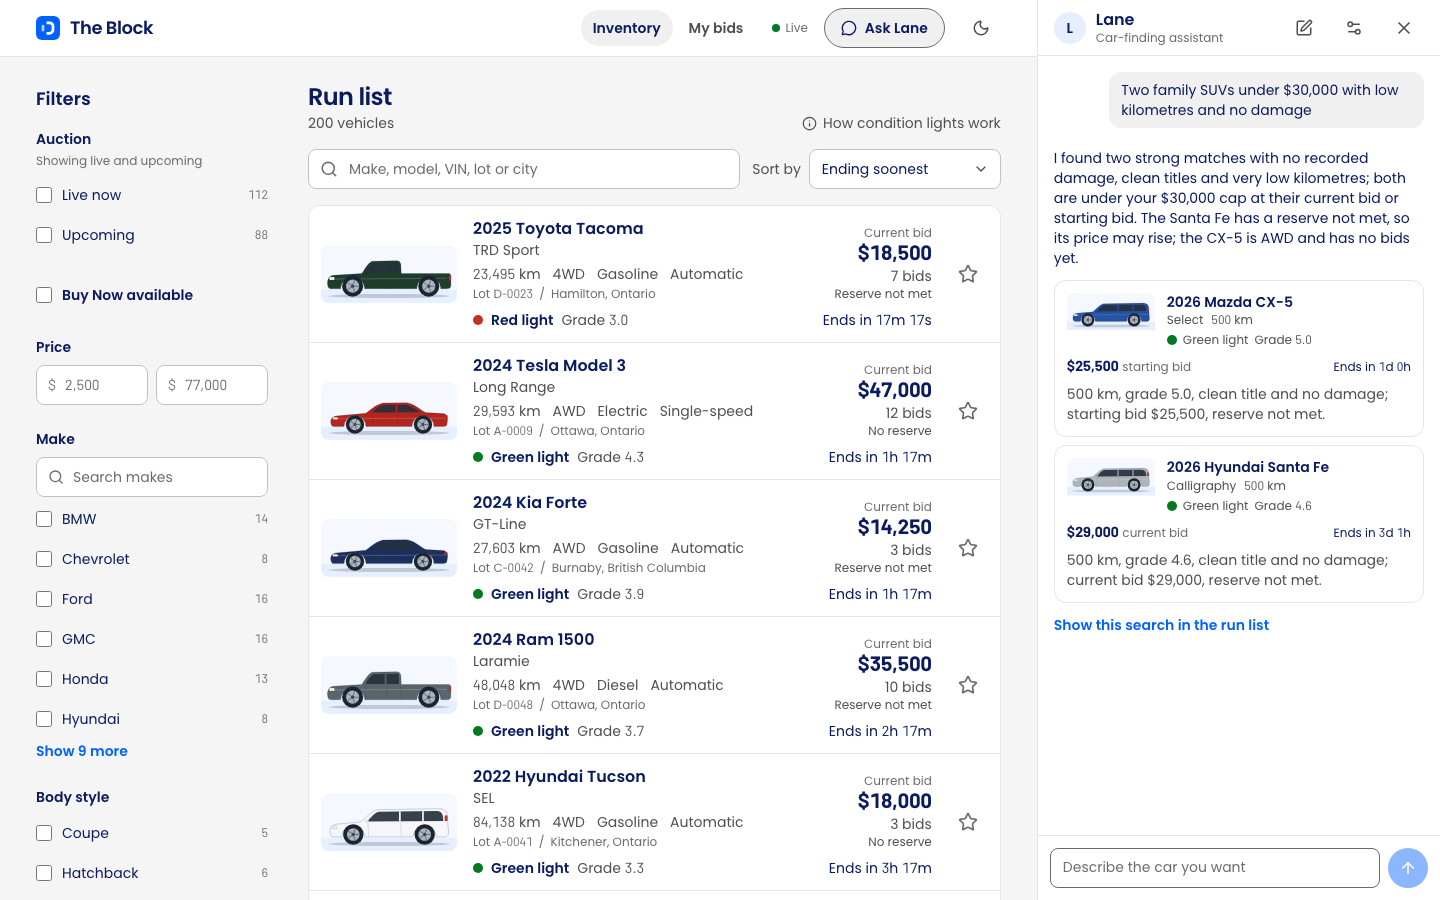
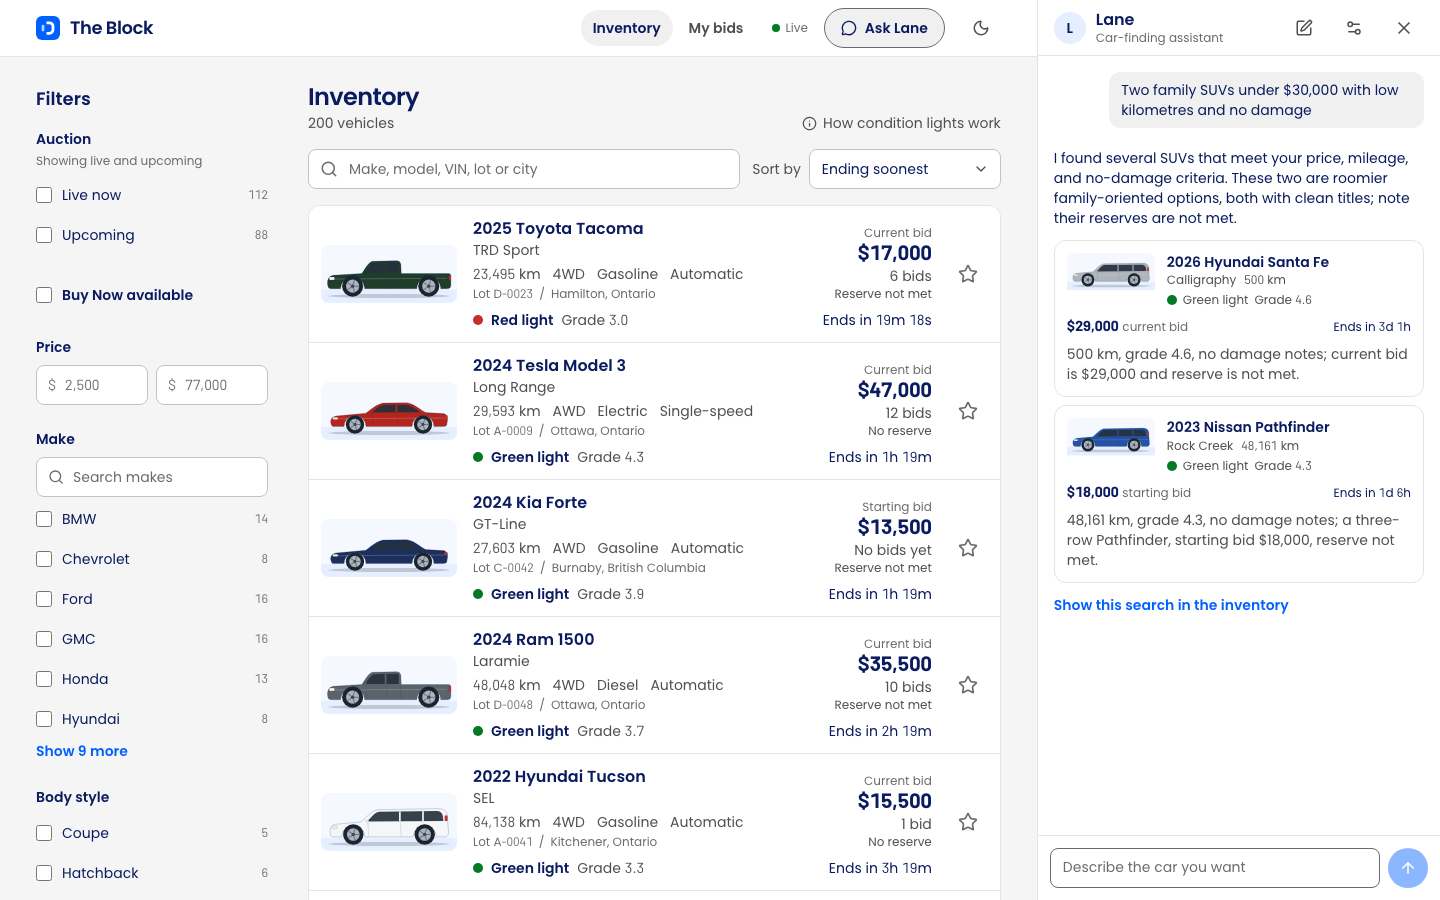
Call the vehicle list 'Inventory', matching the nav tab (#26)
'Run list' is auction-house jargon and didn't match the 'Inventory' tab. The page heading, the
back link on a car page, Lane's step ('Searching the inventory') and link ('Show this search in
the inventory'), empty and error messages, code names, tests and the README now all say
inventory. The back link keeps the visible text 'Inventory' but is named 'Back to inventory',
since the header has an 'Inventory' link too. Screenshots retaken.

diff --git a/web/src/routes/inventory/VehicleRow.tsx b/web/src/routes/inventory/VehicleRow.tsx
@@ -22,10 +22,10 @@ const EDGE = {
 
 /*
  * Rows lay out by the width of their list, not the window's (container queries, sizes in
- * index.css), so they fit wherever they are: the run list beside the filters, My bids, or a page
- * narrowed by Lane's panel. From about 940px of list the run list is a table, and wider lists add
+ * index.css), so they fit wherever they are: the inventory beside the filters, My bids, or a page
+ * narrowed by Lane's panel. From about 940px of list the inventory is a table, and wider lists add
  * columns instead of stretching the gaps: odometer from about 1210px, location from about 1460px
- * (what the run list gets on 1280, 1600 and 1900px screens). Header and rows share these.
+ * (what the inventory gets on 1280, 1600 and 1900px screens). Header and rows share these.
  *
  * Only the vehicle column stretches; every other column is sized to its content, with the same
  * 32px between all of them. Text columns (condition, location) sit left and figures (odometer,
@@ -40,7 +40,7 @@ const EDGE = {
 const TABLE_COLUMNS =
   '@row-table:grid-cols-[8rem_minmax(0,1fr)_7.5rem_7rem_9rem_2.5rem] @row-table:gap-x-8 @row-wide:grid-cols-[8rem_minmax(0,1fr)_7.5rem_6.5rem_7rem_9rem_2.5rem] @row-widest:grid-cols-[8rem_minmax(0,1fr)_7.5rem_9rem_6.5rem_7rem_9rem_2.5rem]'
 
-/** Column labels over the run list's table layout (wide lists only). */
+/** Column labels over the inventory's table layout (wide lists only). */
 export function VehicleRowHeader() {
   return (
     <div
@@ -63,7 +63,7 @@ export function VehicleRowHeader() {
 }
 
 /**
- * One line of the run list: everything a buyer scans before deciding to open a car. Each fact is
+ * One line of the inventory: everything a buyer scans before deciding to open a car. Each fact is
  * rendered once and placed by grid areas: a compact card in a narrow list, two lines beside the
  * picture in a medium one, table columns in a wide one. The list must be an `@container`.
  * `note` adds a line under the vehicle, e.g. "Your top bid $23,300" on My bids.
@@ -76,8 +76,8 @@ export function VehicleRow({ vehicle, note }: { vehicle: VehicleSummary; note?: 
   const hasBids = auction.current_bid !== null
   const name = vehicleName(vehicle)
   const light = conditionLight(vehicle)
-  // The vehicle page's "Run list" link goes back (keeping filters and page) only from here.
-  const onRunList = useMatch('/') !== null
+  // The vehicle page's "Inventory" link goes back (keeping filters and page) only from here.
+  const onInventory = useMatch('/') !== null
 
   return (
     <article
@@ -115,7 +115,7 @@ export function VehicleRow({ vehicle, note }: { vehicle: VehicleSummary; note?: 
             {/* Stretched link: the whole row opens the vehicle, with one link for screen readers. */}
             <Link
               to={`/vehicles/${vehicle.id}`}
-              state={onRunList ? { fromRunList: true } : undefined}
+              state={onInventory ? { fromInventory: true } : undefined}
               className="after:absolute after:inset-0 after:content-[''] focus-visible:outline-none focus-visible:after:outline-2 focus-visible:after:outline-offset-[-2px] focus-visible:after:outline-[var(--focus)]"
             >
               {name}

diff --git a/web/src/components/lane/LanePanel.test.tsx b/web/src/components/lane/LanePanel.test.tsx
@@ -203,7 +203,7 @@ describe('Lane', () => {
     const { sent } = serve({
       reply: () =>
         eventStream([
-          { type: 'step', label: 'Searching the run list' },
+          { type: 'step', label: 'Searching the inventory' },
           { type: 'text', delta: 'One SUV ' },
           { type: 'text', delta: 'fits.' },
           {
@@ -225,7 +225,7 @@ describe('Lane', () => {
     expect(conversation(lane).getByText('One SUV fits.')).toBeInTheDocument()
     expect(within(card).getByText('Low kilometres, reserve met.')).toBeInTheDocument()
     expect(within(card).getByRole('link')).toHaveAttribute('href', '/vehicles/veh-9')
-    expect(lane.getByRole('link', { name: 'Show this search in the run list' })).toHaveAttribute(
+    expect(lane.getByRole('link', { name: 'Show this search in the inventory' })).toHaveAttribute(
       'href',
       '/?body_style=SUV&price_max=30000',
     )
@@ -328,14 +328,14 @@ describe('Lane', () => {
   })
 
   it('stops an answer on request', async () => {
-    const stream = eventStream([{ type: 'step', label: 'Searching the run list' }], true)
+    const stream = eventStream([{ type: 'step', label: 'Searching the inventory' }], true)
     const onStop = vi.fn(() => stream.close())
     serve({ reply: () => stream.response, onStop })
     renderRoute('/')
     const lane = await openLane()
 
     await userEvent.type(await lane.findByRole('textbox', { name: 'Message Lane' }), 'Hi{Enter}')
-    expect(await lane.findByText('Searching the run list…')).toBeInTheDocument()
+    expect(await lane.findByText('Searching the inventory…')).toBeInTheDocument()
     await userEvent.click(lane.getByRole('button', { name: 'Stop answering' }))
     expect(onStop).toHaveBeenCalled()
     await waitFor(() => expect(conversation(lane).getByText('Stopped.')).toBeInTheDocument())
@@ -430,7 +430,7 @@ describe('Lane', () => {
 
   it('never leaves an answer spinning when the stream ends without one', async () => {
     serve({
-      reply: () => eventStream([{ type: 'step', label: 'Searching the run list' }]).response,
+      reply: () => eventStream([{ type: 'step', label: 'Searching the inventory' }]).response,
     })
     renderRoute('/')
     const lane = await openLane()
@@ -442,13 +442,13 @@ describe('Lane', () => {
   })
 
   it('stops the answer when "New chat" is pressed while Lane is answering', async () => {
-    const stream = eventStream([{ type: 'step', label: 'Searching the run list' }], true)
+    const stream = eventStream([{ type: 'step', label: 'Searching the inventory' }], true)
     const onStop = vi.fn()
     serve({ reply: () => stream.response, onStop })
     renderRoute('/')
     const lane = await openLane()
     await userEvent.type(await lane.findByRole('textbox', { name: 'Message Lane' }), 'Hi{Enter}')
-    expect(await lane.findByText('Searching the run list…')).toBeInTheDocument()
+    expect(await lane.findByText('Searching the inventory…')).toBeInTheDocument()
     await userEvent.click(lane.getByRole('button', { name: 'New chat' }))
     await waitFor(() => expect(onStop).toHaveBeenCalled())
     stream.close() // the old answer's end arrives late: it mustn't show in the new chat

diff --git a/web/src/routes/VehicleDetailPage.tsx b/web/src/routes/VehicleDetailPage.tsx
@@ -54,7 +54,7 @@ function VehicleDetailContent({ vehicleId }: { vehicleId: string }) {
     return (
       <section className="mx-auto max-w-md py-16 text-center" role="alert">
         <h1 className="text-2xl font-semibold tracking-tight">
-          {missing ? 'This vehicle isn’t on the run list' : 'Couldn’t load this vehicle'}
+          {missing ? 'This vehicle isn’t in the inventory' : 'Couldn’t load this vehicle'}
         </h1>
         <p className="text-ink-muted mt-2">
           {missing ? 'It may have been removed, or the link is wrong.' : query.error.message}
@@ -66,7 +66,7 @@ function VehicleDetailContent({ vehicleId }: { vehicleId: string }) {
             </button>
           )}
           <Link to="/" className="btn btn-plain">
-            Back to the run list
+            Back to the inventory
           </Link>
         </div>
       </section>
@@ -103,25 +103,28 @@ function VehicleDetailContent({ vehicleId }: { vehicleId: string }) {
   )
 }
 
-/** Back to the run list as the buyer left it (filters, page) when they came from it. */
+/** Back to the inventory as the buyer left it (filters, page) when they came from it. */
 function BackLink() {
   const navigate = useNavigate()
   const location = useLocation()
-  // Go back only when we came from the run list, so its filters and page are restored. From
-  // anywhere else (My bids, a toast, a shared link) this is a plain link to the run list.
-  const fromRunList = (location.state as { fromRunList?: boolean } | null)?.fromRunList === true
+  // Go back only when we came from the inventory, so its filters and page are restored. From
+  // anywhere else (My bids, a toast, a shared link) this is a plain link to the inventory.
+  const fromInventory =
+    (location.state as { fromInventory?: boolean } | null)?.fromInventory === true
   return (
     <Link
       to="/"
+      // The header has an "Inventory" link too: this one says where it goes.
+      aria-label="Back to inventory"
       onClick={(event) => {
-        if (!fromRunList) return
+        if (!fromInventory) return
         event.preventDefault()
         void navigate(-1)
       }}
       className="text-ink-muted hover:text-ink inline-flex items-center gap-1.5 text-sm font-semibold"
     >
       <ArrowLeft size={16} aria-hidden />
-      Run list
+      Inventory
     </Link>
   )
 }

diff --git a/web/src/routes/MyBidsPage.test.tsx b/web/src/routes/MyBidsPage.test.tsx
@@ -37,7 +37,7 @@ describe('MyBidsPage', () => {
     expect(within(screen.getByRole('link', { name: /My bids/ })).getByText('1')).toBeInTheDocument()
   })
 
-  it("takes 'Run list' on a car opened from here to the run list, not back here", async () => {
+  it("takes 'Back to inventory' on a car opened from here to the inventory, not back here", async () => {
     vi.stubGlobal(
       'fetch',
       stubApi((url) =>
@@ -54,17 +54,17 @@ describe('MyBidsPage', () => {
     )
     renderRoute('/my-bids')
     await userEvent.click(await screen.findByRole('link', { name: '2023 Ford F-150' }))
-    await userEvent.click(await screen.findByRole('link', { name: 'Run list' }))
-    expect(await screen.findByRole('heading', { name: 'Run list' })).toBeInTheDocument()
+    await userEvent.click(await screen.findByRole('link', { name: 'Back to inventory' }))
+    expect(await screen.findByRole('heading', { name: 'Inventory' })).toBeInTheDocument()
   })
 
-  it('invites you to the run list when there is nothing to show', async () => {
+  it('invites you to the inventory when there is nothing to show', async () => {
     serve([])
     renderRoute('/my-bids')
     expect(
       await screen.findByRole('heading', { name: 'No bids or watched vehicles yet' }),
     ).toBeInTheDocument()
-    expect(screen.getByRole('link', { name: 'Browse the run list' })).toHaveAttribute('href', '/')
+    expect(screen.getByRole('link', { name: 'Browse the inventory' })).toHaveAttribute('href', '/')
   })
 
   it('suggests the auctions closing first when there is nothing to show', async () => {

diff --git a/web/src/components/lane/LanePanel.tsx b/web/src/components/lane/LanePanel.tsx
@@ -28,7 +28,7 @@ import { cn } from '../../lib/cn'
 import { formatClockTime } from '../../lib/format'
 import { SelectField } from '../SelectField'
 import { LanePickCard } from './LanePickCard'
-import { runListUrl, useLane, useLaneOpen, type Turn } from './laneState'
+import { inventoryUrl, useLane, useLaneOpen, type Turn } from './laneState'
 
 const WIDE = '(min-width: 80rem)'
 /** The server's limit on a message (LaneMessage.text in server/app/lane/schemas.py). */
@@ -272,7 +272,7 @@ function SignIn({ status }: { status: LaneStatus }) {
     <div className="space-y-4 p-4 text-sm">
       <p>
         Tell Lane what you're after (budget, body style, mileage, when the auction should close) and
-        it picks the cars in today's run list that fit, with the reason for each.
+        it picks the cars in today's inventory that fit, with the reason for each.
       </p>
       <p className="text-ink-muted">
         Lane answers with your ChatGPT account. Sign in once; it stays signed in on this computer.
@@ -514,8 +514,8 @@ const TurnView = memo(function TurnView({ turn, onOpen }: { turn: Turn; onOpen?:
         </ul>
       )}
       {turn.search && turn.picks.length > 0 && (
-        <Link to={runListUrl(turn.search)} onClick={onOpen} className="link-action inline-block">
-          Show this search in the run list
+        <Link to={inventoryUrl(turn.search)} onClick={onOpen} className="link-action inline-block">
+          Show this search in the inventory
         </Link>
       )}
       {turn.problem &&

diff --git a/web/e2e/bidding.spec.ts b/web/e2e/bidding.spec.ts
@@ -2,7 +2,7 @@ import { expect, test } from '@playwright/test'
 
 test('a buyer finds a vehicle, bids on it, and tracks it in My bids', async ({ page }) => {
   await page.goto('/')
-  await expect(page.getByRole('heading', { name: 'Run list' })).toBeVisible()
+  await expect(page.getByRole('heading', { name: 'Inventory' })).toBeVisible()
   await expect(page.getByText('200 vehicles')).toBeVisible()
 
   // Search narrows the list and lands in the URL.
@@ -32,8 +32,8 @@ test('a buyer finds a vehicle, bids on it, and tracks it in My bids', async ({ p
   await expect(panel.getByText("You're the high bidder.")).toBeVisible()
   await expect(panel.getByRole('listitem').first()).toContainText('You')
 
-  // Back returns to the filtered run list, where the row now shows the lead.
-  await page.getByRole('link', { name: 'Run list' }).click()
+  // Back returns to the filtered inventory, where the row now shows the lead.
+  await page.getByRole('link', { name: 'Back to inventory' }).click()
   await expect(page).toHaveURL(/status=live/)
   await expect(rows.filter({ hasText: title }).first()).toContainText("You're winning")
 

diff --git a/web/src/routes/InventoryPage.tsx b/web/src/routes/InventoryPage.tsx
@@ -54,7 +54,7 @@ export function InventoryPage() {
         <div className="flex flex-wrap items-end justify-between gap-x-4 gap-y-2">
           <div>
             <h1 id="inventory-heading" className="text-2xl font-semibold tracking-tight">
-              Run list
+              Inventory
             </h1>
             <p className="text-ink-muted text-sm" aria-live="polite">
               {data ? plural(data.total, 'vehicle') : 'Loading vehicles…'}
@@ -79,7 +79,7 @@ export function InventoryPage() {
             <RowSkeletons />
           ) : inventory.isError && !data ? (
             <Notice
-              title="Couldn't load the run list"
+              title="Couldn't load the inventory"
               body={inventory.error.message}
               action={{ label: 'Try again', onClick: () => void inventory.refetch() }}
             />

diff --git a/web/src/components/lane/laneState.ts b/web/src/components/lane/laneState.ts
@@ -10,7 +10,7 @@ export type Turn =
       id: string
       role: 'lane'
       text: string
-      /** What Lane did on the way, e.g. "Searching the run list". */
+      /** What Lane did on the way, e.g. "Searching the inventory". */
       steps: string[]
       picks: LanePick[]
       search: Search | null
@@ -90,8 +90,8 @@ export function useLane(): LaneState {
   return { ...useLaneOpen(), ...chat }
 }
 
-/** The run list's URL for Lane's search: the same filters, so the buyer can browse them all. */
-export function runListUrl(search: Search): string {
+/** The inventory's URL for Lane's search: the same filters, so the buyer can browse them all. */
+export function inventoryUrl(search: Search): string {
   const params = toSearchParams(search)
   return params.size > 0 ? `/?${params}` : '/'
 }

diff --git a/web/src/routes/InventoryPage.test.tsx b/web/src/routes/InventoryPage.test.tsx
@@ -81,7 +81,7 @@ describe('InventoryPage', () => {
     expect(router.state.location.search).toBe('?buy_now=true')
   })
 
-  it('offers a retry when the run list fails to load', async () => {
+  it('offers a retry when the inventory fails to load', async () => {
     vi.stubGlobal(
       'fetch',
       vi.fn().mockResolvedValue(
@@ -94,7 +94,7 @@ describe('InventoryPage', () => {
       ),
     )
     renderRoute('/')
-    expect(await screen.findByRole('alert')).toHaveTextContent("Couldn't load the run list")
+    expect(await screen.findByRole('alert')).toHaveTextContent("Couldn't load the inventory")
     expect(screen.getByRole('button', { name: 'Try again' })).toBeInTheDocument()
   })
 

diff --git a/web/src/api/liveEvents.ts b/web/src/api/liveEvents.ts
@@ -46,7 +46,7 @@ export const useConnection = (): Connection =>
 
 /**
  * One app-wide subscription to /api/events, shared by all of the app's tabs (sharedStream.ts).
- * Each bid is written straight into every cached copy of that vehicle (run list, detail page,
+ * Each bid is written straight into every cached copy of that vehicle (inventory, detail page,
  * My bids), so prices move everywhere without refetching.
  * The server sends `hello` on every (re)connect. Initial reads wait for the first one
  * (subscribe, then read); after a reconnect, everything on screen is refetched.

diff --git a/web/src/routes/VehicleDetailPage.test.tsx b/web/src/routes/VehicleDetailPage.test.tsx
@@ -178,10 +178,10 @@ describe('VehicleDetailPage', () => {
     )
     renderRoute('/vehicles/nope')
     expect(
-      await screen.findByRole('heading', { name: 'This vehicle isn’t on the run list' }),
+      await screen.findByRole('heading', { name: 'This vehicle isn’t in the inventory' }),
     ).toBeInTheDocument()
     await waitFor(() =>
-      expect(screen.getByRole('link', { name: 'Back to the run list' })).toHaveAttribute(
+      expect(screen.getByRole('link', { name: 'Back to the inventory' })).toHaveAttribute(
         'href',
         '/',
       ),

diff --git a/web/e2e/many-tabs.spec.ts b/web/e2e/many-tabs.spec.ts
@@ -3,7 +3,7 @@ import { expect, test } from '@playwright/test'
 // Browsers allow about six open connections per site. With a live stream per tab, enough tabs
 // would queue a new tab's requests forever ("Loading vehicles…"), so all tabs share one stream
 // through a SharedWorker.
-test('eight tabs open at once all load the run list and stay live', async ({ context }) => {
+test('eight tabs open at once all load the inventory and stay live', async ({ context }) => {
   const pages = []
   for (let i = 0; i < 8; i++) {
     const page = await context.newPage()
